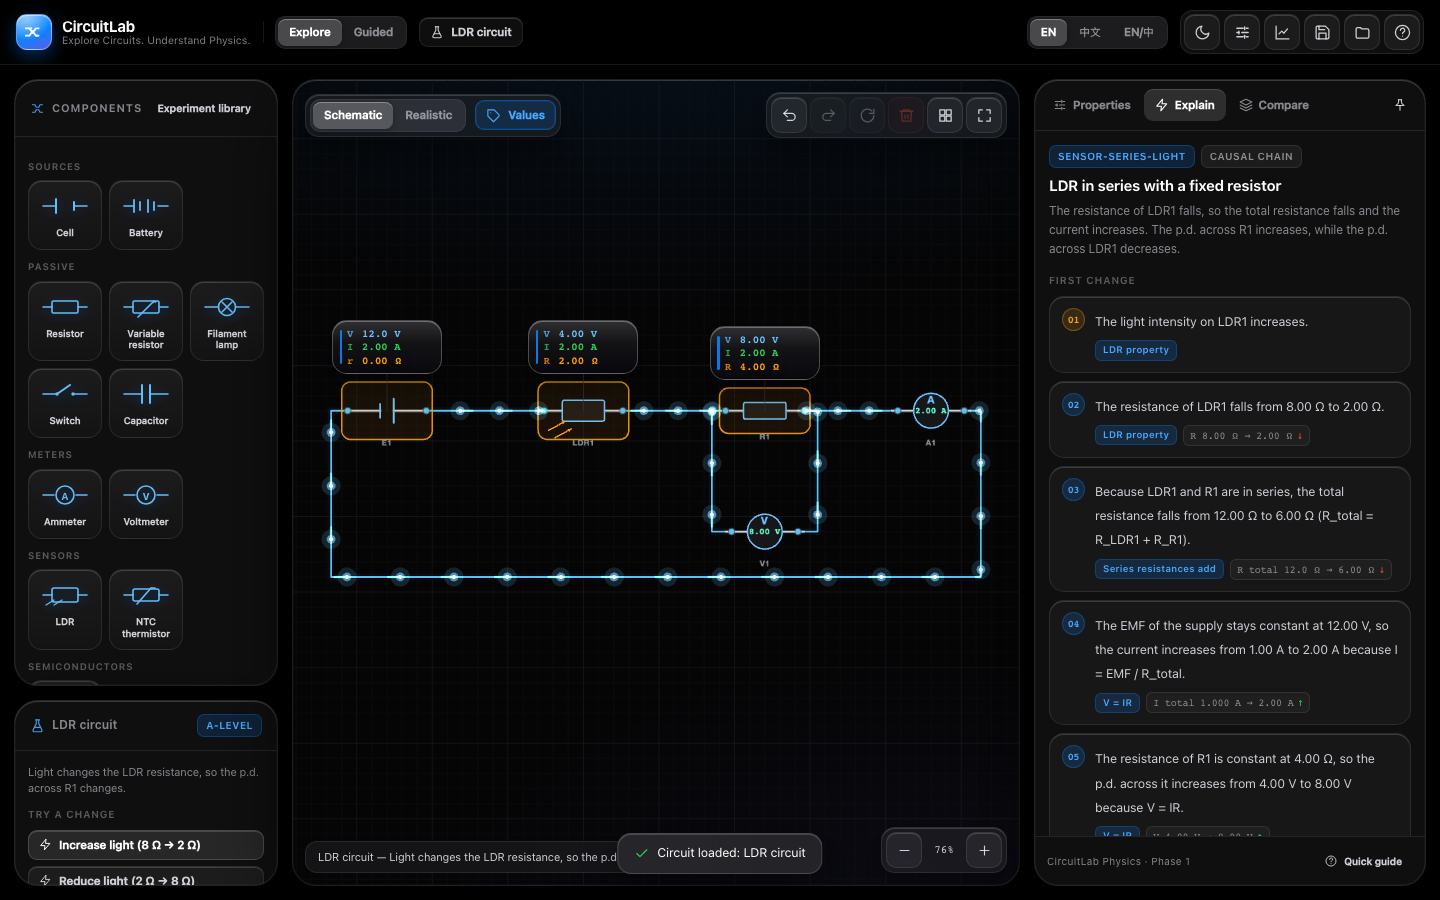
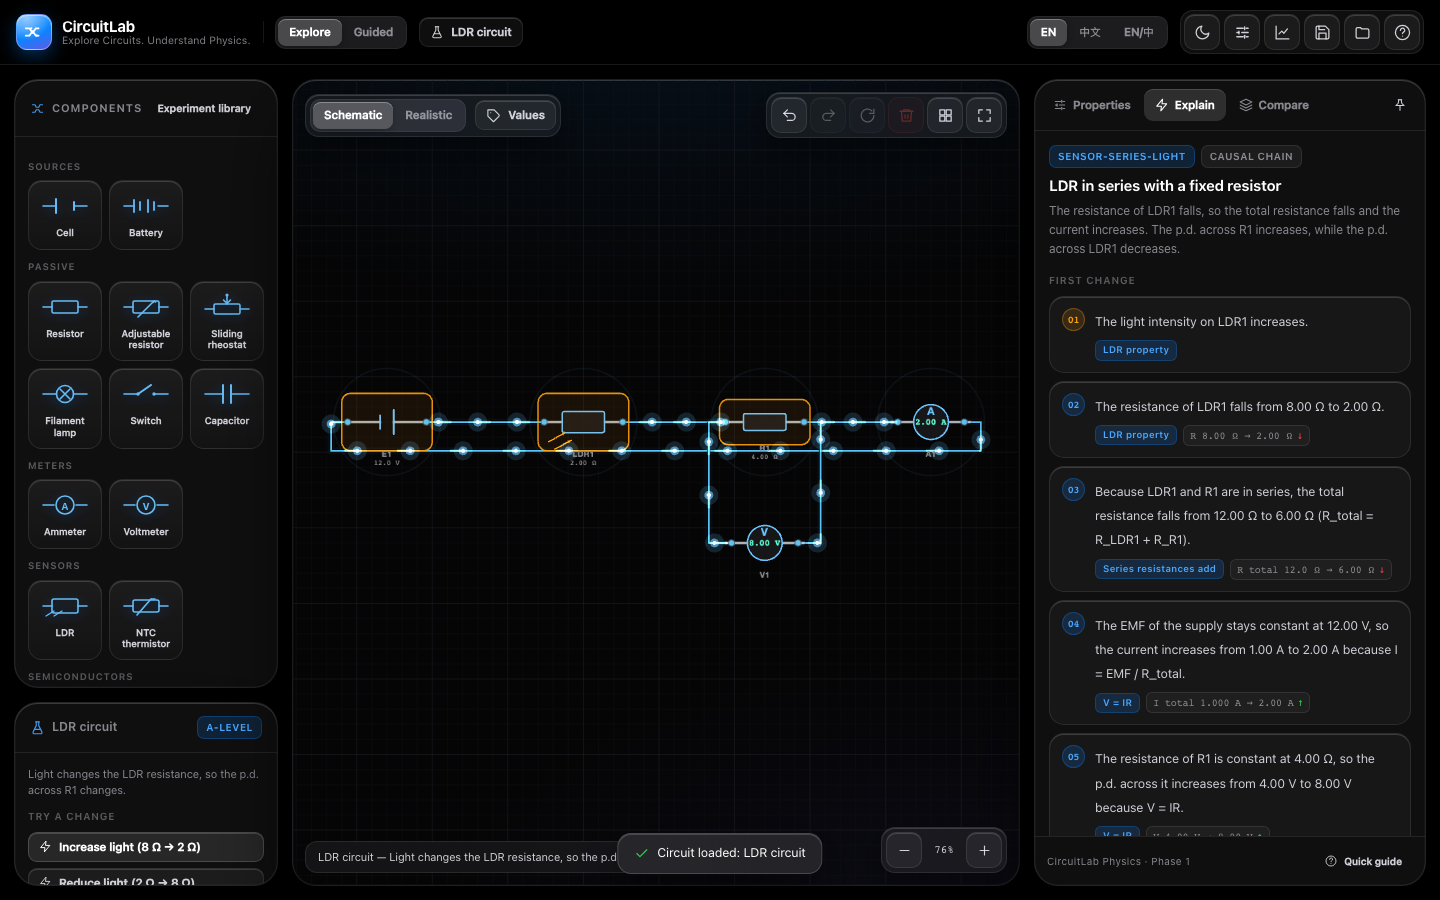
feat: power on value cards and a live source power breakdown
- Every Liquid Glass value card gains a fourth row: passives show dissipated power P; the source shows external circuit power P and internal-resistance power Pr = I²r
- Source inspector shows external/internal power cards plus the balance P_EMF = P_ext + P_r; the Measurements dock shows the same two powers in real time
- Fixed totalPowerDelivered/totalPowerDissipated: the solver iterated Object.values over a Map (always empty); now uses readings.values(), with a test asserting 22 W external and 22 W dissipated for 12 V / 0.5 Ω / 5.5 Ω
- More chip placement candidates preserve source cards after the extra row; e2e coverage for the 4-row cards and source power cards; 69 unit / 41 Playwright checks green; live verified

diff --git a/packages/circuit-renderer/src/renderer.ts b/packages/circuit-renderer/src/renderer.ts
@@ -472,9 +472,8 @@ export class CircuitRenderer {
     // Narrow canvases (phones) get compact cards so several can sit side by side.
     const compact = this.width < 560;
     const W = compact ? 80 : 110;
-    const H = compact ? 44 : 54;
-    const GAP = 12;
     const toScreen = (p: Point) => ({ x: p.x * zoom + this.view.x, y: p.y * zoom + this.view.y });
+    const chipHeight = () => (compact ? 48 : 66);
 
     const screenBounds = state.doc.components.map((comp) => {
       const b = componentBounds(comp);
@@ -523,11 +522,13 @@ export class CircuitRenderer {
       a.y < b.y + b.height + pad &&
       a.y + a.height + pad > b.y;
 
+    type ChipRow = { key: string; text: string; tone: 'v' | 'i' | 'r' | 'p' | 'pr' };
     const placements: {
       id: string;
       chosen: { x: number; y: number };
       focus: Point;
-      rows: { key: string; text: string; tone: 'v' | 'i' | 'r' }[];
+      height: number;
+      rows: ChipRow[];
     }[] = [];
 
     const ordered = [...state.doc.components].sort((a, b) => a.y - b.y || a.x - b.x);
@@ -535,6 +536,29 @@ export class CircuitRenderer {
       if (comp.kind === 'ammeter' || comp.kind === 'voltmeter') continue;
       const reading = state.solution.components[comp.id];
       if (!reading || !reading.valid) continue;
+      const isSource = comp.kind === 'cell' || comp.kind === 'battery';
+      const resistance =
+        reading.resistance !== null && Number.isFinite(reading.resistance)
+          ? formatQuantity(reading.resistance, 'resistance')
+          : '—';
+      const externalPower = isSource
+        ? Math.abs(reading.deliveredPower ?? 0)
+        : Math.abs(reading.power);
+      const rows: ChipRow[] = [
+        { key: 'V', text: formatQuantity(reading.voltageMagnitude, 'voltage'), tone: 'v' },
+        { key: 'I', text: formatQuantity(reading.currentMagnitude, 'current'), tone: 'i' },
+        isSource
+          ? { key: 'P', text: formatQuantity(externalPower, 'power'), tone: 'p' }
+          : { key: 'R', text: resistance, tone: 'r' },
+        isSource
+          ? {
+              key: 'Pr',
+              text: formatQuantity(Math.abs(reading.internalPower ?? 0), 'power'),
+              tone: 'pr',
+            }
+          : { key: 'P', text: formatQuantity(externalPower, 'power'), tone: 'p' },
+      ];
+      const H = chipHeight();
       const index = state.doc.components.indexOf(comp);
       const b = screenBounds[index];
       const focus = toScreen({ x: comp.x, y: comp.y });
@@ -548,6 +572,12 @@ export class CircuitRenderer {
         { x: b.x + b.width + gap + 22, y: b.y - H - gap },
         { x: b.x - W - gap - 22, y: b.y + b.height + gap },
         { x: b.x + b.width / 2 - W / 2, y: b.y + b.height + gap + 46 },
+        { x: b.x + b.width / 2 - W / 2, y: b.y - H - gap - 52 },
+        { x: b.x + b.width / 2 - W / 2, y: b.y + b.height + gap + 74 },
+        { x: b.x + b.width + gap + 46, y: b.y + b.height / 2 - H / 2 },
+        { x: b.x - W - gap - 46, y: b.y + b.height / 2 - H / 2 },
+        { x: b.x + b.width + gap + 18, y: b.y + b.height + gap + 18 },
+        { x: b.x - W - gap - 18, y: b.y - H - gap - 18 },
       ];
       const topInset = compact ? 8 : 64;
       const inCanvas = (rect: { x: number; y: number; width: number; height: number }) =>
@@ -566,29 +596,13 @@ export class CircuitRenderer {
       }
       if (!chosen) continue;
       occupied.push({ ...chosen, width: W, height: H });
-
-      const isSource = comp.kind === 'cell' || comp.kind === 'battery';
-      const resistance =
-        reading.resistance !== null && Number.isFinite(reading.resistance)
-          ? formatQuantity(reading.resistance, 'resistance')
-          : '—';
-      placements.push({
-        id: comp.id,
-        chosen,
-        focus,
-        rows: [
-          { key: 'V', text: formatQuantity(reading.voltageMagnitude, 'voltage'), tone: 'v' },
-          { key: 'I', text: formatQuantity(reading.currentMagnitude, 'current'), tone: 'i' },
-          isSource
-            ? { key: 'r', text: `${(comp.params.internalResistance ?? 0).toFixed(2)} Ω`, tone: 'r' }
-            : { key: 'R', text: resistance, tone: 'r' },
-        ],
-      });
+      placements.push({ id: comp.id, chosen, focus, height: H, rows });
     }
 
     const keep = new Set<string>();
     for (const placement of placements) {
       keep.add(placement.id);
+      const H = placement.height;
       let entry = this.chipElements.get(placement.id);
       if (!entry) {
         const root = document.createElement('div');
@@ -598,11 +612,17 @@ export class CircuitRenderer {
           root.appendChild(span);
           return span;
         });
-        const chipClass = `value-chip${compact ? ' is-compact' : ''}`;
-        root.className = chipClass;
+        root.className = `value-chip${compact ? ' is-compact' : ''}`;
         layer.appendChild(root);
         entry = { root, rows, content: '' };
         this.chipElements.set(placement.id, entry);
+      }
+      // The card can grow when the source needs a Pr row.
+      while (entry.rows.length < placement.rows.length) {
+        const span = document.createElement('span');
+        span.className = 'value-row';
+        entry.root.appendChild(span);
+        entry.rows.push(span);
       }
       entry.root.className = `value-chip${compact ? ' is-compact' : ''}`;
       const content = placement.rows.map((row) => `${row.key}|${row.tone}|${row.text}`).join('|');
@@ -613,6 +633,9 @@ export class CircuitRenderer {
           span.className = `value-row row-${row.tone}`;
           span.innerHTML = `<span class="value-key">${row.key}</span><span class="value-value">${row.text}</span>`;
         });
+        for (let i = placement.rows.length; i < entry.rows.length; i += 1) {
+          entry.rows[i].style.display = 'none';
+        }
       }
       entry.root.style.left = `${placement.chosen.x}px`;
       entry.root.style.top = `${placement.chosen.y}px`;

diff --git a/e2e/desktop.spec.ts b/e2e/desktop.spec.ts
@@ -241,7 +241,11 @@ test.describe('CircuitLab desktop', () => {
     await expect(state(page)).toHaveAttribute('data-show-values', 'true');
     await expect(page.getByRole('button', { name: 'Show values' })).toHaveAttribute('aria-pressed', 'true');
     await expect(page.locator('.value-chip')).toHaveCount(3);
-    const glass = await page.locator('.value-chip').first().evaluate((el) => getComputedStyle(el).backdropFilter);
+    const firstChip = page.locator('.value-chip').first();
+    await expect(firstChip.locator('.value-row')).toHaveCount(4);
+    await expect(firstChip).toContainText('Pr');
+    await expect(firstChip).toContainText('P');
+    const glass = await firstChip.evaluate((el) => getComputedStyle(el).backdropFilter);
     expect(glass).toContain('blur');
     await page.keyboard.press('Escape');
     await expect(settings).toHaveCount(0);
@@ -272,6 +276,21 @@ test.describe('CircuitLab desktop', () => {
     await expect(page.locator('.liquid-ripple')).toHaveCount(1);
     await page.mouse.up();
     await expect(page.locator('.liquid-ripple')).toHaveCount(0, { timeout: 2500 });
+  });
+
+  test('shows external and internal source power in real time', async ({ page }) => {
+    await loadExperiment(page, 'Internal resistance');
+    const cell = await canvasPoint(page, 140, 260);
+    await page.mouse.click(cell.x, cell.y);
+    const rail = page.locator('.rail-body');
+    await expect(rail.getByText('External circuit power')).toBeVisible();
+    await expect(rail.getByText('Internal-resistance power')).toBeVisible();
+    await expect(rail.getByText('10.00 W').first()).toBeVisible();
+    await expect(rail.getByText('2.00 W').first()).toBeVisible();
+    await expect(rail.getByText(/P_EMF = P_ext \+ P_r/)).toBeVisible();
+    await page.locator('.bottom-dock').getByRole('tab', { name: 'Measurements' }).click();
+    await expect(page.locator('.bottom-dock').getByText('External power')).toBeVisible();
+    await expect(page.locator('.bottom-dock').getByText('Internal power')).toBeVisible();
   });
 
   test('shows the internal-resistance fit and the RC time constant', async ({ page }) => {

diff --git a/apps/web/src/components/RightRail.tsx b/apps/web/src/components/RightRail.tsx
@@ -448,14 +448,28 @@ export function Inspector() {
               <div className="meter-card-value">{formatQuantity(reading.currentMagnitude, 'current')}</div>
             </div>
             <div className="meter-card">
-              <div className="meter-card-label">{t(language, 'measure.power')}</div>
-              <div className="meter-card-value">{formatQuantity(Math.abs(reading.power), 'power')}</div>
+              <div className="meter-card-label">{t(language, 'properties.externalPower')}</div>
+              <div className="meter-card-value">
+                {formatQuantity(Math.abs(reading.deliveredPower ?? 0), 'power')}
+              </div>
+            </div>
+            <div className="meter-card">
+              <div className="meter-card-label">{t(language, 'properties.internalPower')}</div>
+              <div className="meter-card-value">
+                {formatQuantity(Math.abs(reading.internalPower ?? 0), 'power')}
+              </div>
             </div>
           </div>
           <div className="field-hint">
             Terminal p.d. = EMF − I·r = {formatQuantity(comp.params.emf ?? 0, 'voltage')} −{' '}
             {formatQuantity(reading.currentMagnitude, 'current')} ×{' '}
             {formatQuantity(internalR, 'resistance')}
+          </div>
+          <div className="field-hint">
+            {t(language, 'properties.powerBalance')}:{' '}
+            {formatQuantity((comp.params.emf ?? 0) * reading.currentMagnitude, 'power')} ={' '}
+            {formatQuantity(Math.abs(reading.deliveredPower ?? 0), 'power')} +{' '}
+            {formatQuantity(Math.abs(reading.internalPower ?? 0), 'power')}
           </div>
         </>
       )}

diff --git a/packages/i18n/src/index.ts b/packages/i18n/src/index.ts
@@ -86,6 +86,9 @@ const D: Record<string, Entry> = {
   'properties.sectionAW': ['Section A–W', 'A–W 段电阻'],
   'properties.sectionWB': ['Section W–B', 'W–B 段电阻'],
   'properties.wiperCurrent': ['Wiper current', '滑片支路电流'],
+  'properties.externalPower': ['External circuit power', '外电路功率'],
+  'properties.internalPower': ['Internal-resistance power', '内阻功率'],
+  'properties.powerBalance': ['P_EMF = P_ext + P_r', 'P_电动势 = P_外 + P_内'],
   'properties.emf': ['EMF', '电动势'],
   'properties.internalResistance': ['Internal resistance', '内阻'],
   'properties.capacitance': ['Capacitance', '电容'],
@@ -109,6 +112,8 @@ const D: Record<string, Entry> = {
   'measure.resistance': ['Resistance', '电阻'],
   'measure.totalR': ['Total resistance', '总电阻'],
   'measure.totalI': ['Supply current', '电源电流'],
+  'measure.externalPower': ['External power', '外电路功率'],
+  'measure.internalPower': ['Internal power', '内阻功率'],
   'measure.totalP': ['Power delivered', '输出功率'],
   'measure.component': ['Component', '元件'],
   'measure.none': ['No measurements yet.', '暂无测量数据。'],

diff --git a/tests/physics.test.ts b/tests/physics.test.ts
@@ -397,6 +397,30 @@ describe('LDR and thermistor models', () => {
 });
 
 
+describe('source power', () => {
+  it('separates external and internal resistance power', () => {
+    const doc = buildDoc(
+      [
+        { kind: 'cell', params: { emf: 12, internalResistance: 0.5 } },
+        { kind: 'resistor', params: { resistance: 5.5 } },
+      ],
+      [
+        [0, 'pos', 1, 'a'],
+        [1, 'b', 0, 'neg'],
+      ],
+    );
+    const solution = solveCircuit(doc);
+    const source = solution.components[compId(doc, 0)];
+    expect(source.currentMagnitude).toBeCloseTo(2, 6);
+    expect(source.terminalVoltage).toBeCloseTo(11, 6);
+    expect(source.deliveredPower).toBeCloseTo(22, 6);
+    expect(source.internalPower).toBeCloseTo(2, 6);
+    expect(solution.totalPowerDelivered).toBeCloseTo(22, 6);
+    expect(solution.totalPowerDissipated).toBeCloseTo(22, 6);
+    expect((source.deliveredPower ?? 0) + (source.internalPower ?? 0)).toBeCloseTo(24, 6);
+  });
+});
+
 describe('three-terminal sliding rheostat', () => {
   const divider = (wiper: number) =>
     buildDoc(

diff --git a/apps/web/src/components/BottomDock.tsx b/apps/web/src/components/BottomDock.tsx
@@ -342,9 +342,15 @@ export function Measurements() {
               </div>
             </div>
             <div className="meter-card">
-              <div className="meter-card-label">{t(language, 'measure.totalP')}</div>
+              <div className="meter-card-label">{t(language, 'measure.externalPower')}</div>
               <div className="meter-card-value">
-                {formatQuantity(Math.abs(solution.totalPowerDelivered), 'power')}
+                {formatQuantity(Math.abs(solution.components[source.id].deliveredPower ?? 0), 'power')}
+              </div>
+            </div>
+            <div className="meter-card">
+              <div className="meter-card-label">{t(language, 'measure.internalPower')}</div>
+              <div className="meter-card-value">
+                {formatQuantity(Math.abs(solution.components[source.id].internalPower ?? 0), 'power')}
               </div>
             </div>
           </>

diff --git a/apps/web/src/styles.css b/apps/web/src/styles.css
@@ -387,7 +387,7 @@ kbd {
 }
 
 .value-key {
-  width: 8px;
+  width: 13px;
   opacity: 0.75;
 }
 
@@ -401,6 +401,14 @@ kbd {
 
 .row-r {
   color: #ff9f0a;
+}
+
+.row-p {
+  color: #ff6b8a;
+}
+
+.row-pr {
+  color: #bf5af2;
 }
 
 .value-chip.is-compact {
@@ -419,7 +427,7 @@ kbd {
 }
 
 .value-chip.is-compact .value-key {
-  width: 6px;
+  width: 9px;
 }
 
 .value-chip.is-compact .value-row {
@@ -448,6 +456,14 @@ kbd {
 
 .light .row-r {
   color: #c93400;
+}
+
+.light .row-p {
+  color: #d70055;
+}
+
+.light .row-pr {
+  color: #8944ab;
 }
 
 .stage-overlay-top {

diff --git a/packages/physics-engine/src/solve.ts b/packages/physics-engine/src/solve.ts
@@ -755,7 +755,7 @@ export function solveCircuit(doc: CircuitDocument, options: SolveOptions = {}): 
       totalResistance = Number.POSITIVE_INFINITY;
     }
   }
-  for (const reading of Object.values(readings)) {
+  for (const reading of readings.values()) {
     if (reading.kind === 'cell' || reading.kind === 'battery') {
       totalPowerDelivered += reading.deliveredPower ?? 0;
     } else {

diff --git a/docs/agent-progress.md b/docs/agent-progress.md
@@ -18,10 +18,10 @@ Last updated: 2026-11-01 (Phase 1 build + review fixes)
 | GitHub Pages deployment | ✅ live from `gh-pages`, verified |
 | WeChat mini-program | 🟡 scaffold + adapter layer only (Phase 2, not published) |
 
-- Unit/physics/reasoning/teaching/routing tests: **68 passed**
-- Desktop e2e: **19 passed** (`desktop-chromium`, includes the smoke test)
+- Unit/physics/reasoning/teaching/routing tests: **69 passed**
+- Desktop e2e: **20 passed** (`desktop-chromium`, includes the smoke test)
 - Mobile e2e: iPhone 13 **7 passed**, Pixel 7 **7 passed**, iPad **7 passed**
-- Total Playwright: **40 passed**, 60 intentionally skipped
+- Total Playwright: **41 passed**, 63 intentionally skipped
 - TypeScript: strict, no errors
 - Production build: passing (Pixi + ECharts split into chunks)
 - Live site verified: HTTP 200, assets 200, WebGL + LDR reasoning, 0 console errors
@@ -109,6 +109,13 @@ Last updated: 2026-11-01 (Phase 1 build + review fixes)
 - Schematic and realistic renderers draw the three-terminal symbol and wiper; the inspector adds a wiper-position slider (0 % at B, 100 % at A) and potential-divider output cards with the formula. The reasoning engine explains wiper changes with section resistances and `V_WB = (R_WB/R_total)·V_AB`.
 - Router fix: endpoint component bodies are now avoided as well, so a wiper wire cannot run back through its own rheostat.
 - Tests: potential-divider, two-wire, full-track and JSON round-trip cases; a reasoning test; an e2e library/inspector test. 68 unit / 40 Playwright checks.
+
+## Power readouts (thirteenth review)
+
+- Every Liquid Glass value card now carries a fourth row: P. Passives show dissipated power; the source card shows the external circuit power (terminal p.d. × current) plus `Pr = I²r`, the power lost in the internal resistance.
+- The source inspector gained external and internal-resistance power cards and the balance line `P_EMF = P_ext + P_r`; the Measurements dock shows the same two powers in real time.
+- Fixed `totalPowerDelivered`/`totalPowerDissipated`: the solver iterated `Object.values` over a Map (always empty), so these totals were reported as 0. They now use `readings.values()`; the tests assert 22 W external and 22 W dissipated for a 12 V, 0.5 Ω source driving 5.5 Ω.
+- Tests: source-power physics test, source-power inspector/measurements e2e and value-card row assertions. 69 unit / 41 Playwright checks.
 
 ## Known limitations
 

diff --git a/README.md b/README.md
@@ -40,6 +40,9 @@ circuit — not from keyword matching.
 | Manual wire adjustment | Three-terminal sliding rheostat |
 | --- | --- |
 | ![A wire dragged into a manual route with handles and reset control](docs/images/manual-wire.png) | ![Sliding rheostat used as a potential divider](docs/images/potentiometer-divider.png) |
+| Source power breakdown | |
+| --- | --- |
+| ![Source parameter cards showing external and internal-resistance power, with the inspector breakdown](docs/images/source-powers.png) | |
 
 ## Why this is not just an animation
 
@@ -77,8 +80,9 @@ stays at the supply voltage and only the LDR branch current changes.
 | Redundant-wire prevention, parallel lane routing, selectable/deletable wires | ✅ |
 | Manual wire adjustment: drag a wire to reshape it, handles on movable segments, reset to automatic | ✅ |
 | Two distinct variable components: 2-terminal adjustable resistor and 3-terminal sliding rheostat with a wiper divider | ✅ |
+| Real-time source power breakdown: terminal/external power and I²r internal power, with the `P_EMF = P_ext + P_r` balance | ✅ |
 | Apple-style Liquid Glass UI, pure-black dark theme, full light theme | ✅ |
-| Live V / I / R cards in real Liquid Glass (DOM + backdrop blur), toggled by a labelled **Values** switch | ✅ |
+| Live V / I / R / P cards in real Liquid Glass (DOM + backdrop blur), toggled by a labelled **Values** switch; source cards add external and internal-resistance power | ✅ |
 | Strict card placement: never overlaps components, designators, other cards or wires (hidden if no free spot) | ✅ |
 | Meter readings auto-fit their screen and are kept clear of return wires | ✅ |
 | Animated feedback: lamp glow scales with power, glowing comet-style current particles, value-change pulses | ✅ |

diff --git a/docs/verification.md b/docs/verification.md
@@ -46,6 +46,8 @@ site.
 | Manual wire routes | ✅ drag a wire segment or offset a straight wire, endpoints stay attached and orthogonal; reset to automatic; survives JSON round-trip |
 | Three-terminal rheostat | ✅ potential-divider output `V_WB = (R_WB/R_total)·V_AB` verified (wiper 25 % ⇒ 3.00 V), two-wire A–W and full-track modes tested |
 | Component distinction | ✅ library offers "Adjustable resistor" (2-wire) and "Sliding rheostat" (3-wire), with separate names, glyphs, terminals and inspectors |
+| Power on value cards | ✅ V / I / R / P rows; source cards show external power and Pr = I²r |
+| Source power breakdown | ✅ inspector + Measurements show external 10.00 W, internal 2.00 W for E = 6 V, r = 0.50 Ω, I = 2 A, with P_EMF = 12.00 W |
 | Phone toolbar | ✅ every control visible at 320–412 px, nothing clipped by the stage |
 | Phone top bar | ✅ grouped icon cluster, styled language picker, theme toggle, no page overflow |
 | Phone value cards | ✅ 80 × 44 compact cards fit three in a row; desktop keeps the larger cards |
@@ -78,12 +80,12 @@ site.
 
 | Suite | Result |
 | --- | --- |
-| Vitest (physics, transients, reasoning, teaching, routing) | 68 / 68 passed |
-| Playwright desktop project | 19 / 19 passed |
+| Vitest (physics, transients, reasoning, teaching, routing) | 69 / 69 passed |
+| Playwright desktop project | 20 / 20 passed |
 | Playwright iPhone 13 | 7 / 7 passed |
 | Playwright Pixel 7 | 7 / 7 passed |
 | Playwright iPad (gen 7) | 7 / 7 passed |
-| Total e2e | 40 passed, 60 intentionally skipped (viewport-specific) |
+| Total e2e | 41 passed, 63 intentionally skipped (viewport-specific) |
 
 Run the live smoke test any time with:
 
